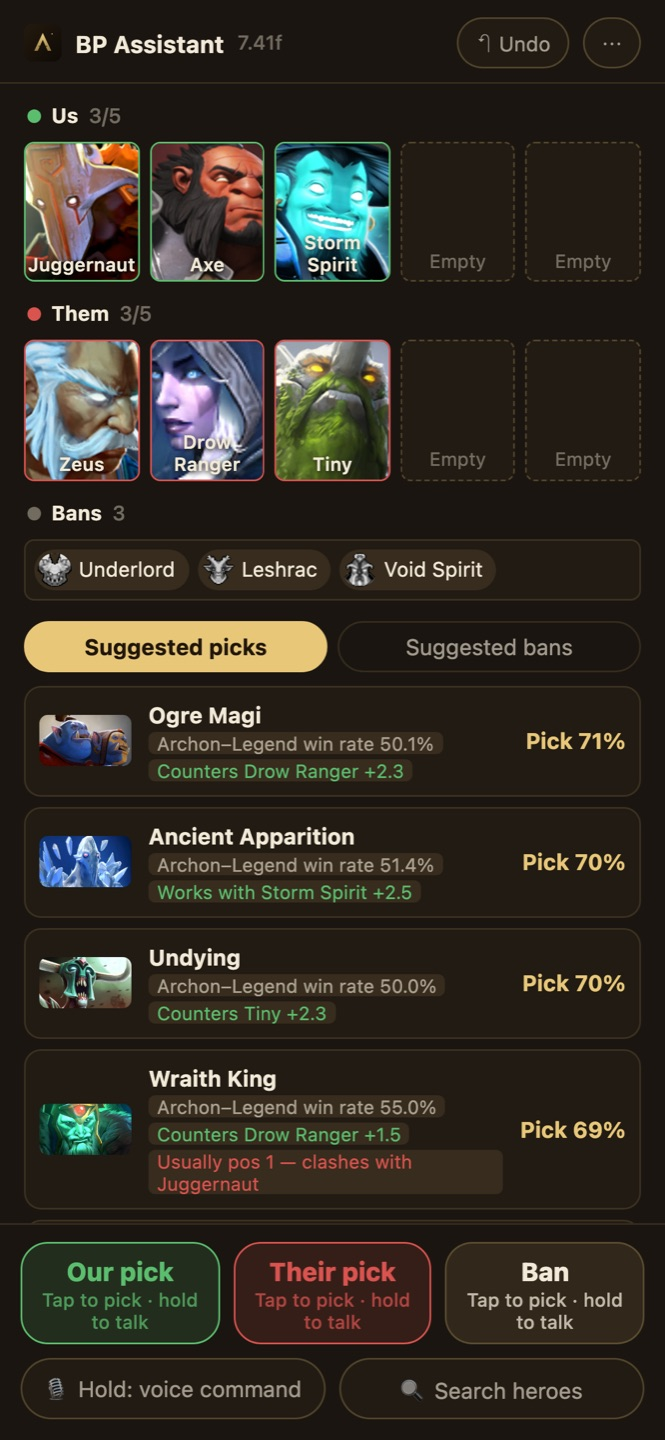
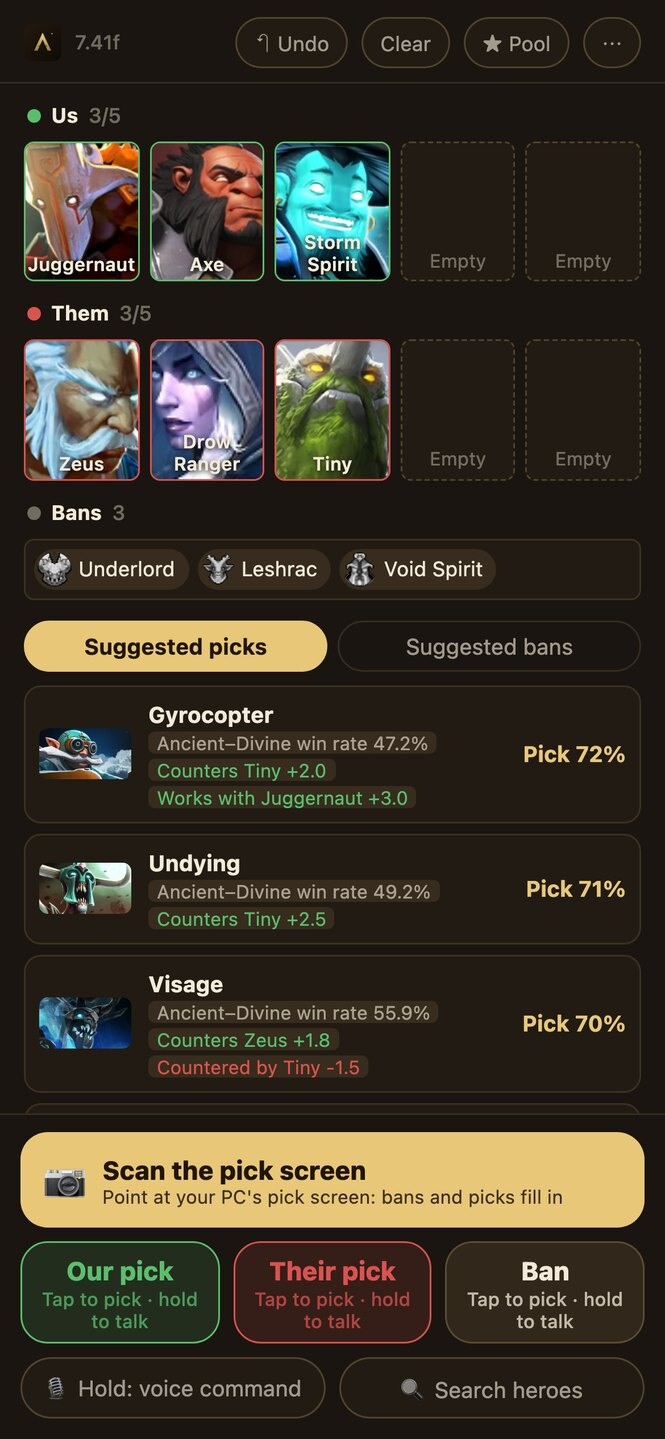
docs(site): phone BP screenshots show photo scan, captions and FAQ mention it

diff --git a/index.html b/index.html
@@ -1152,7 +1152,7 @@
 <script type="application/ld+json">
 {"@context":"https://schema.org","@type":"FAQPage","mainEntity":[
 {"@type":"Question","name":"AMEFYS 是什么？","acceptedAnswer":{"@type":"Answer","text":"AMEFYS 是一款免费的 DOTA 2 实时辅助工具（Windows / macOS）：实时翻译队友和对手的聊天并一键回复、根据对局推荐出装、用快捷回复一键发送预制文本。数据只来自 Valve 官方 GSI 接口，不读游戏内存，对局记录默认只存本机。"}},
-{"@type":"Question","name":"手机上能用 AMEFYS 的 BP 推荐吗？","acceptedAnswer":{"@type":"Answer","text":"能。手机浏览器打开 amefys.com/bp，用电脑版同一个账号登录即可，不用装 App，游戏电脑上什么都不装。按住「我方选 / 敌方选 / 禁用」说英雄名就能录入阵容，俗称也认，也可以直接点选；推荐选和建议禁与电脑版是同一套数据，来自几百万局公开天梯对局，每天更新。"}},
+{"@type":"Question","name":"手机上能用 AMEFYS 的 BP 推荐吗？","acceptedAnswer":{"@type":"Answer","text":"能。手机浏览器打开 amefys.com/bp，用电脑版同一个账号登录即可，不用装 App，游戏电脑上什么都不装。最快的是点「拍照识别」，对着电脑拍一张选人界面，禁用和已选会自动填进去（目前只认中文客户端）；也可以按住「我方选 / 敌方选 / 禁用」说英雄名，俗称也认，或者直接点选；推荐选和建议禁与电脑版是同一套数据，来自几百万局公开天梯对局，每天更新。"}},
 {"@type":"Question","name":"使用 AMEFYS 会被 Valve 封号吗？","acceptedAnswer":{"@type":"Answer","text":"不会。AMEFYS 只使用 Valve 官方的 Game State Integration 接口读取对局状态；发送消息走 DOTA 内置聊天热键加剪贴板粘贴，与手动操作等价。不读取游戏内存、不修改客户端文件、不拦截网络流量，不在 VAC 的检测范围内。"}},
 {"@type":"Question","name":"怎么让 AMEFYS 连上 DOTA 2？","acceptedAnswer":{"@type":"Answer","text":"首次打开有 GSI 配置向导：一键写入配置文件到 DOTA 2 的 cfg/gamestate_integration 目录，再把 -gamestateintegration 粘贴到 Steam 启动选项，进入游戏主菜单即自动连接，约 30 秒。"}},
 {"@type":"Question","name":"正式天梯能看到敌方装备 / 队友经济 / 小地图位置吗？","acceptedAnswer":{"@type":"Answer","text":"不能。正式对局中 GSI 只推送你自己英雄的数据，AMEFYS 不会也无法绕过这一限制，所有建议基于你自己的状态与选人阶段公开的双方阵容。"}},
@@ -1513,7 +1513,7 @@
               </div>
               <span class="hc-bp-label desk"><b>桌面版</b> · 选人时 Alt+Shift+B</span>
               <div class="hc-bp-phone">
-                <img src="assets/screens/bp-mobile.jpg" width="665" height="1440" alt="AMEFYS 手机版 BP 页：双方阵容与推荐选" loading="eager" decoding="async" />
+                <img src="assets/screens/bp-mobile.jpg?v=2" width="665" height="1440" alt="AMEFYS 手机版 BP 页：双方阵容、推荐选和拍照识别按钮" loading="eager" decoding="async" />
               </div>
               <span class="hc-bp-label phone"><b>手机版</b> · amefys.com/bp</span>
             </div>
@@ -1771,8 +1771,8 @@
           <figcaption><b>桌面版 · 悬浮窗</b>选人阶段按 <kbd>Alt+Shift+B</kbd> 打开。左键我方选、右键敌方选、Ctrl+点击禁用；右侧分「推荐 / 建议 Ban / 阵容」三页。</figcaption>
         </figure>
         <figure class="bp-shot bp-shot-phone">
-          <img src="assets/screens/bp-mobile.jpg" width="665" height="1440" alt="AMEFYS 手机版 BP 页：双方阵容、禁用和推荐选列表" loading="lazy" decoding="async" />
-          <figcaption><b>手机版 · 浏览器</b>打开 <a href="/bp/">amefys.com/bp</a>，或在桌面版点「手机版」扫码。按住按钮说英雄名就能录入，不挡游戏画面。</figcaption>
+          <img src="assets/screens/bp-mobile.jpg?v=2" width="665" height="1440" alt="AMEFYS 手机版 BP 页：双方阵容、禁用、推荐选列表和拍照识别按钮" loading="lazy" decoding="async" />
+          <figcaption><b>手机版 · 浏览器</b>打开 <a href="/bp/">amefys.com/bp</a>，或在桌面版点「手机版」扫码。对着电脑拍一张选人界面，禁用和已选自动填进去；也可以按住按钮说英雄名。不挡游戏画面。</figcaption>
         </figure>
       </div>
       <p class="bp-note">两张都是 AMEFYS 的原生界面截图。推荐基于公开历史对局统计（数据来自 OpenDota）与本地算法，仅供参考；选人需要你手动录入，AMEFYS 不读取游戏内存。</p>
@@ -2101,7 +2101,7 @@
         </details>
         <details>
           <summary>手机上能用 AMEFYS 的 BP 推荐吗？</summary>
-          <p>能。手机浏览器打开 <a href="/bp/">amefys.com/bp</a>，用电脑版同一个账号登录即可，不用装 App，游戏电脑上什么都不装。按住「我方选 / 敌方选 / 禁用」说英雄名就能录入阵容，俗称也认，也可以直接点选；推荐选和建议禁与电脑版是同一套数据，来自几百万局公开天梯对局，每天更新。</p>
+          <p>能。手机浏览器打开 <a href="/bp/">amefys.com/bp</a>，用电脑版同一个账号登录即可，不用装 App，游戏电脑上什么都不装。最快的是点「拍照识别」，对着电脑拍一张选人界面，禁用和已选会自动填进去（目前只认中文客户端）；也可以按住「我方选 / 敌方选 / 禁用」说英雄名，俗称也认，或者直接点选；推荐选和建议禁与电脑版是同一套数据，来自几百万局公开天梯对局，每天更新。</p>
         </details>
         <details open="">
           <summary>使用 AMEFYS 会被 Valve 封号吗？</summary>

diff --git a/en/index.html b/en/index.html
@@ -946,7 +946,7 @@
               </div>
               <span class="hc-bp-label desk"><b>Desktop</b> · Alt+Shift+B in draft</span>
               <div class="hc-bp-phone">
-                <img src="../assets/screens/bp-mobile-en.jpg" width="665" height="1440" alt="AMEFYS phone draft page: both line-ups and suggested picks" loading="eager" decoding="async" />
+                <img src="../assets/screens/bp-mobile-en.jpg?v=2" width="665" height="1440" alt="AMEFYS phone draft page: both line-ups, suggested picks and the photo-scan button" loading="eager" decoding="async" />
               </div>
               <span class="hc-bp-label phone"><b>Phone</b> · amefys.com/bp</span>
             </div>
@@ -1189,8 +1189,8 @@
           <figcaption><b>Desktop · overlay</b>Press <kbd>Alt+Shift+B</kbd> during the draft. Left click: our pick, right click: their pick, Ctrl+click: ban. Three tabs on the right: Picks / Bans / Line-ups.</figcaption>
         </figure>
         <figure class="bp-shot bp-shot-phone">
-          <img src="../assets/screens/bp-mobile-en.jpg" width="665" height="1440" alt="AMEFYS phone draft page: both line-ups, bans and suggested picks" loading="lazy" decoding="async" />
-          <figcaption><b>Phone · browser</b>Open <a href="/bp/">amefys.com/bp</a>, or click “On phone” in the desktop app and scan the code. Tap heroes to fill the board — nothing to install, nothing over your game.</figcaption>
+          <img src="../assets/screens/bp-mobile-en.jpg?v=2" width="665" height="1440" alt="AMEFYS phone draft page: both line-ups, bans, suggested picks and the photo-scan button" loading="lazy" decoding="async" />
+          <figcaption><b>Phone · browser</b>Open <a href="/bp/">amefys.com/bp</a>, or click “On phone” in the desktop app and scan the code. Tap heroes to fill the board, or photograph the pick screen on your PC (for now this reads the Chinese-language Dota client only). Nothing to install, nothing over your game.</figcaption>
         </figure>
       </div>
       <p class="bp-note">Both are native AMEFYS screenshots. Suggestions come from public match statistics (data: OpenDota) and a local algorithm, for reference only. You enter the draft yourself — AMEFYS never reads game memory.</p>
@@ -1510,7 +1510,7 @@
         </details>
         <details>
           <summary>Can I use the draft suggestions on my phone?</summary>
-          <p>Yes. Open <a href="/bp/" style="color:var(--gold);">amefys.com/bp</a> in your phone's browser and sign in with the same account as the desktop app — there is no app to install, and nothing runs on your gaming PC. Tap heroes to fill the board; picks and bans come from the same data as the desktop overlay. Hold-to-talk voice input currently understands Chinese hero names only.</p>
+          <p>Yes. Open <a href="/bp/" style="color:var(--gold);">amefys.com/bp</a> in your phone's browser and sign in with the same account as the desktop app — there is no app to install, and nothing runs on your gaming PC. Tap heroes to fill the board; picks and bans come from the same data as the desktop overlay. Photo scan of the pick screen and hold-to-talk voice input currently work with the Chinese-language Dota client and Chinese hero names only.</p>
         </details>
         <details open="">
           <summary>Will using AMEFYS get me VAC-banned?</summary>
